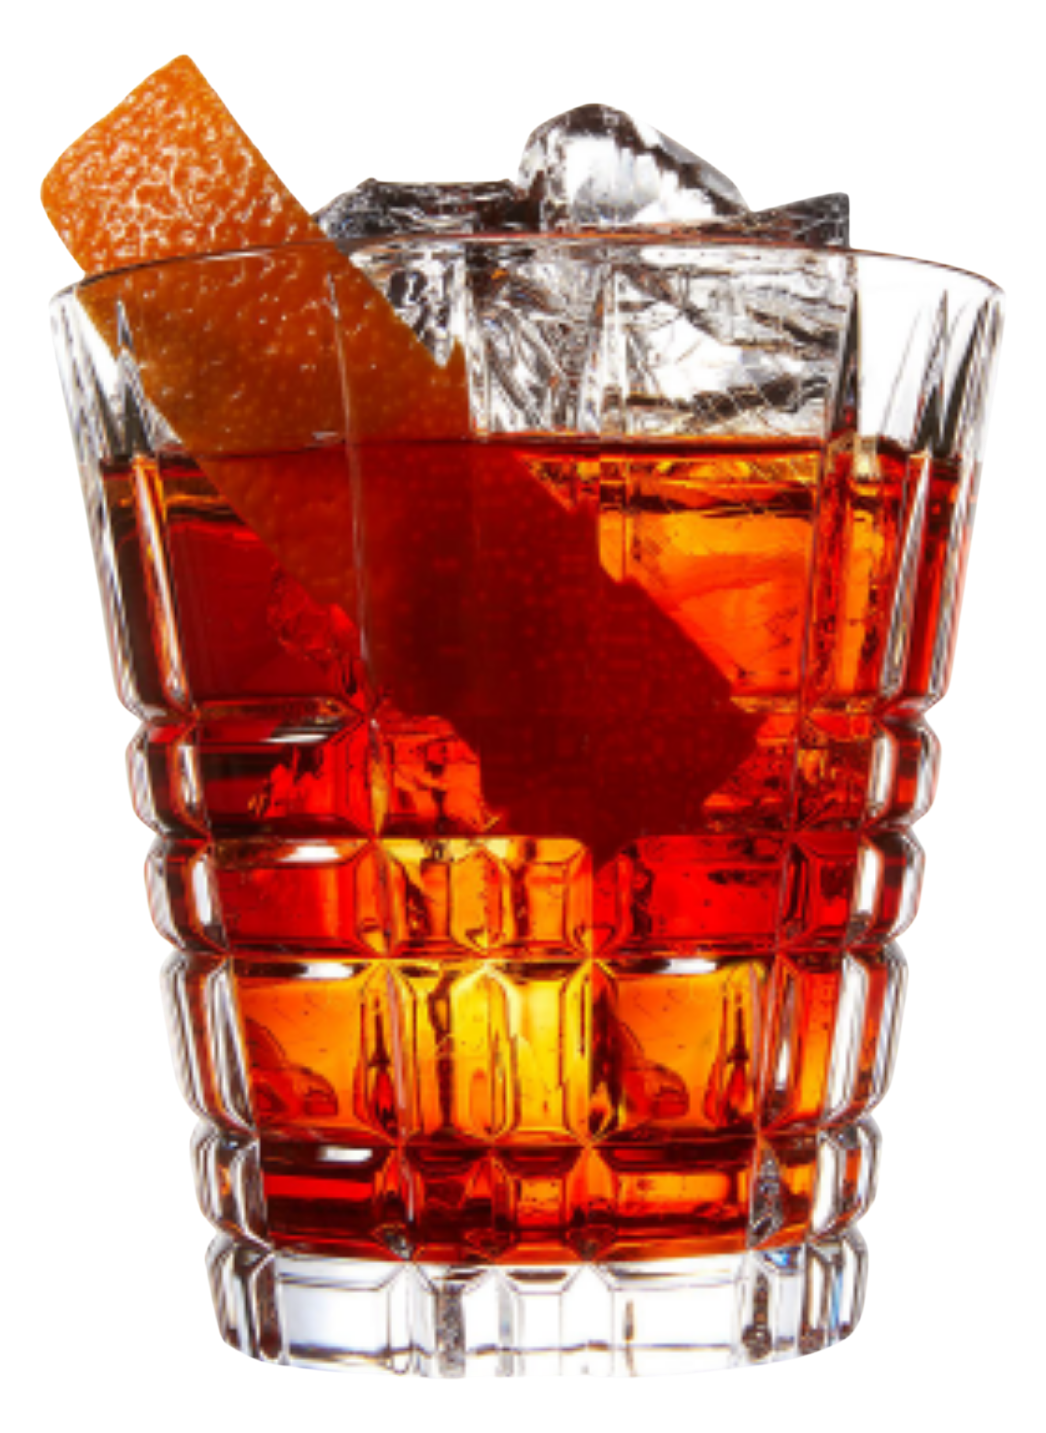
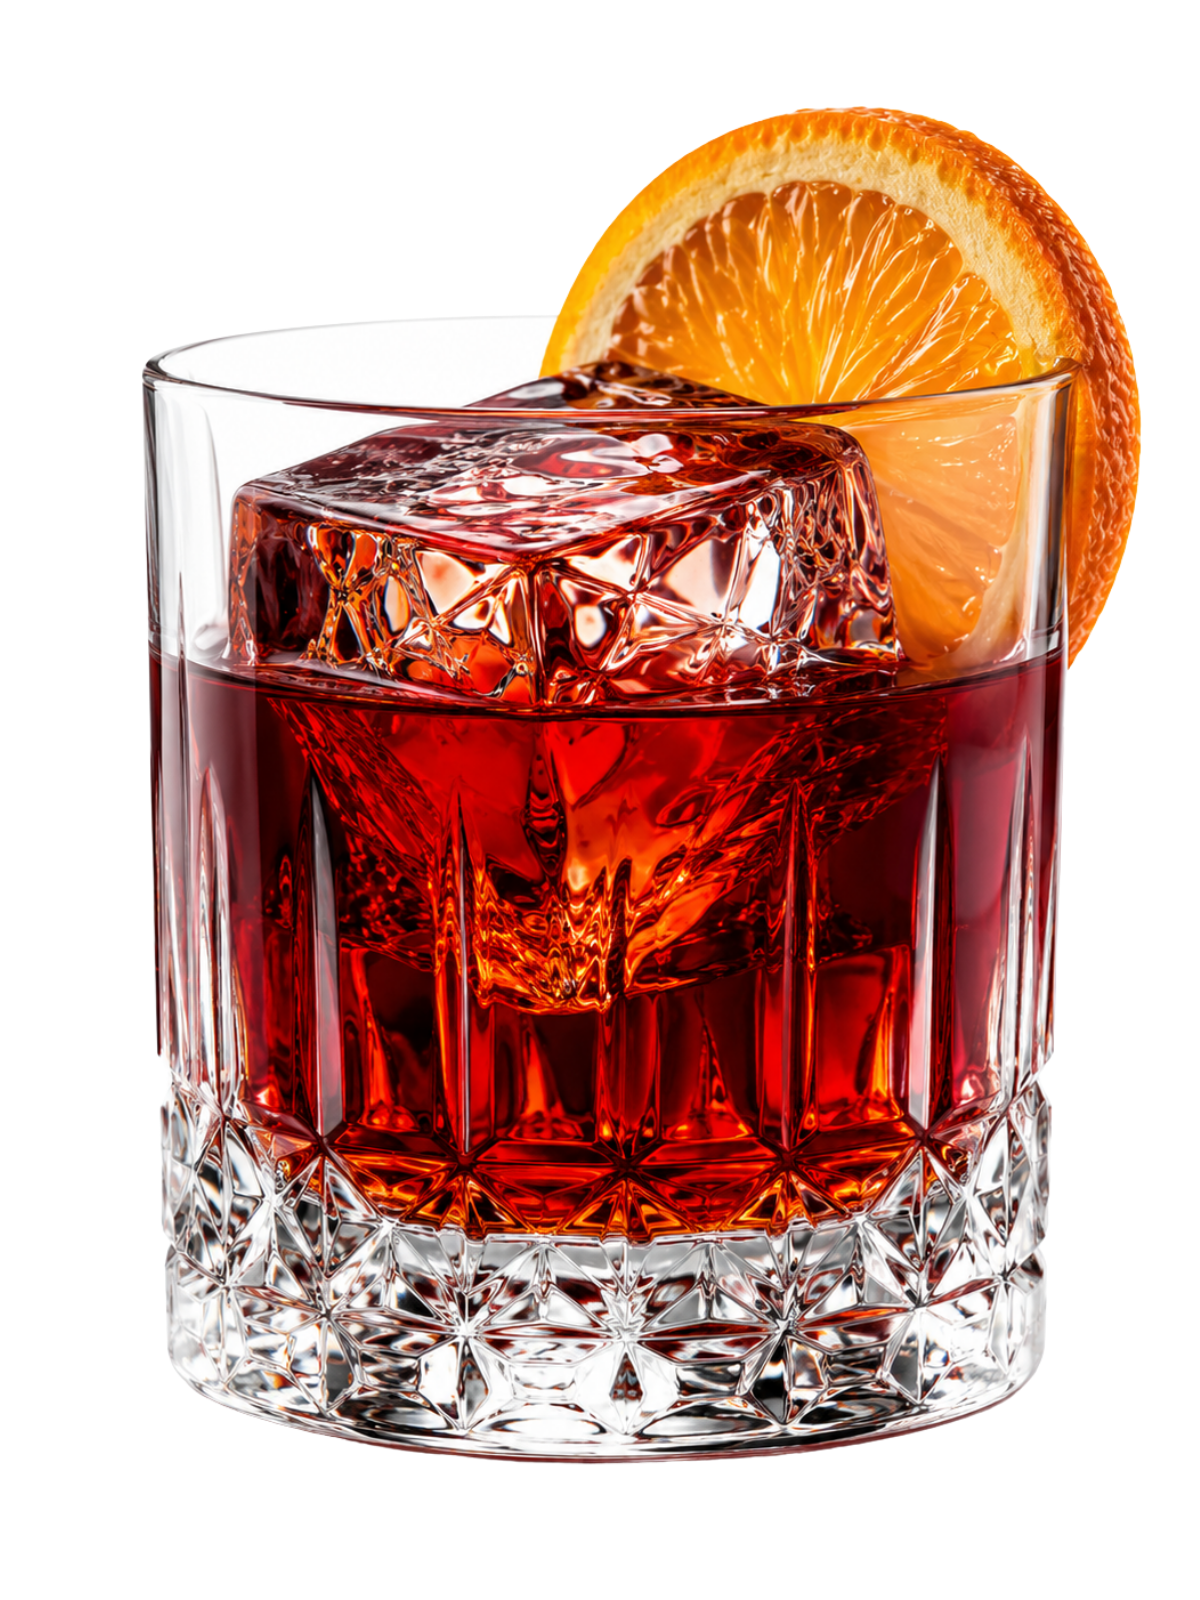
Обновить фото Americano и Milano-Torino и разделить карточки с рецептами.

diff --git a/src/data/recipes.ts b/src/data/recipes.ts
@@ -23,7 +23,10 @@ export interface Recipe {
   barCity: string;
   tags: string[];
   intro: string;
+  /** Фото для страницы рецепта (hero). */
   image: string;
+  /** Фото для карточек в коллекции и списках. Если не задано — используется image. */
+  cardImage?: string;
   method: string;
   glass: string;
   garnish: string;
@@ -70,6 +73,7 @@ export const recipes: RecipeEntry[] = [
       intro:
         'Milano-Torino, или Mi-To, — минималистичный предок Americano и Негрони. В нём нет джина и содовой: только равные части Кампари и сладкого красного вермута, поэтому вкус получается плотным, горько-сладким и очень прямым.',
       image: '/images/recipes/milano-torino.png',
+      cardImage: '/images/cards/milano-torino.png',
       method: 'Сборка в бокале',
       glass: 'Рокс',
       garnish: 'Апельсиновая цедра или долька апельсина',
@@ -121,6 +125,7 @@ export const recipes: RecipeEntry[] = [
       intro:
         'Americano — лёгкий итальянский аперитив и прямой предшественник Негрони. Та же горько-сладкая база Кампари и красного вермута становится более свежей за счёт содовой: напиток сохраняет характер, но пьётся легче.',
       image: '/images/recipes/americano.png',
+      cardImage: '/images/cards/americano.png',
       method: 'Сборка в бокале',
       glass: 'Хайбол или рокс',
       garnish: 'Долька апельсина или апельсиновая цедра',

diff --git a/src/app/curations/page.tsx b/src/app/curations/page.tsx
@@ -6,7 +6,7 @@ import { usePublicRecipes } from '@/hooks/usePublicRecipes';
 import Reveal from '@/components/Reveal';
 import { PublicRecipeImage } from '@/components/PublicRecipeImage';
 import { curations } from '@/data/curations';
-import { getRecipeByIdFrom } from '@/lib/public-recipes';
+import { getRecipeByIdFrom, getRecipeCardImage } from '@/lib/public-recipes';
 
 export default function CurationsPage() {
   const { t, lang } = useI18n();
@@ -61,7 +61,7 @@ export default function CurationsPage() {
                         className="block group relative overflow-hidden rounded-[var(--radius-md)] border border-[var(--color-border)] bg-[linear-gradient(180deg,rgba(255,255,255,0.045),rgba(18,18,18,0.75))] transition-all hover:-translate-y-1 hover:border-[var(--color-campari)] hover:shadow-[var(--shadow-md)]"
                       >
                         <PublicRecipeImage
-                          src={entry.recipe.image}
+                          src={getRecipeCardImage(entry.recipe)}
                           alt={entry.recipe.name}
                           className="aspect-[3/4]"
                           variant="card"

diff --git a/src/app/recipe/[id]/page.tsx b/src/app/recipe/[id]/page.tsx
@@ -9,7 +9,7 @@ import { usePublicRecipes } from '@/hooks/usePublicRecipes';
 import Reveal from '@/components/Reveal';
 import { PublicRecipeImage } from '@/components/PublicRecipeImage';
 import { type Prebatch, type RecipeEntry } from '@/data/recipes';
-import { getRecipeByIdFrom } from '@/lib/public-recipes';
+import { getRecipeByIdFrom, getRecipeCardImage } from '@/lib/public-recipes';
 
 const FLAVOR_KEYS = ['bitter', 'sweet', 'sour', 'spicy', 'strong'] as const;
 
@@ -446,7 +446,7 @@ export default function RecipePage() {
                 className="block p-4 bg-[var(--color-bg)]/30 border border-[var(--color-border)] rounded-[var(--radius-md)] hover:border-[var(--color-campari)] hover:-translate-y-0.5 transition-all group"
               >
                 <PublicRecipeImage
-                  src={r.recipe.image}
+                  src={getRecipeCardImage(r.recipe)}
                   alt={r.recipe.name}
                   className="aspect-[3/4] rounded mb-3"
                   variant="thumbnail"

diff --git a/src/app/collection/page.tsx b/src/app/collection/page.tsx
@@ -16,6 +16,7 @@ import {
   getAllCategoriesFrom,
   getAllRegionsFrom,
   getAllTagsFrom,
+  getRecipeCardImage,
 } from '@/lib/public-recipes';
 
 const FLAVOR_KEYS = ['bitter', 'sweet', 'sour', 'spicy', 'strong'] as const;
@@ -417,7 +418,7 @@ export default function CollectionPage() {
                 className="block group relative overflow-hidden rounded-[var(--radius-lg)] border border-[var(--color-border)] bg-[linear-gradient(180deg,rgba(255,255,255,0.045),rgba(28,28,28,0.82))] transition-all duration-[var(--transition-base)] hover:-translate-y-1 hover:border-[var(--color-campari)] hover:shadow-[var(--shadow-lg),0_0_26px_rgba(187,10,48,0.18)]"
               >
                 <PublicRecipeImage
-                  src={entry.recipe.image}
+                  src={getRecipeCardImage(entry.recipe)}
                   alt={entry.recipe.name}
                   className="card-media aspect-[3/4]"
                   variant="card"

diff --git a/src/app/partners/[category]/[drink]/page.tsx b/src/app/partners/[category]/[drink]/page.tsx
@@ -3,6 +3,7 @@ import Link from 'next/link';
 import { notFound } from 'next/navigation';
 import Reveal from '@/components/Reveal';
 import { PublicRecipeImage } from '@/components/PublicRecipeImage';
+import { getRecipeCardImage } from '@/lib/public-recipes';
 import {
   drinkCategories,
   drinks,
@@ -322,7 +323,7 @@ export default async function PartnerDrinkPage({
                   className="group overflow-hidden rounded-[var(--radius-lg)] border border-[var(--color-border)] bg-[var(--color-surface)] transition-all duration-500 hover:-translate-y-1 hover:border-[var(--color-campari)] hover:shadow-[var(--shadow-lg)]"
                 >
                   <PublicRecipeImage
-                    src={entry.recipe.image}
+                    src={getRecipeCardImage(entry.recipe)}
                     alt={entry.recipe.name}
                     className="aspect-[3/4]"
                     variant="card"

diff --git a/src/app/favorites/page.tsx b/src/app/favorites/page.tsx
@@ -7,7 +7,7 @@ import { useI18n } from '@/hooks/useI18n';
 import { useFavorites } from '@/hooks/useFavorites';
 import { usePublicRecipes } from '@/hooks/usePublicRecipes';
 import { PublicRecipeImage } from '@/components/PublicRecipeImage';
-import { getRecipeByIdFrom } from '@/lib/public-recipes';
+import { getRecipeByIdFrom, getRecipeCardImage } from '@/lib/public-recipes';
 
 export default function FavoritesPage() {
   const { t } = useI18n();
@@ -135,7 +135,7 @@ export default function FavoritesPage() {
               >
                 <Link href={`/recipe/${entry.id}`} className="block">
                   <PublicRecipeImage
-                    src={entry.recipe.image}
+                    src={getRecipeCardImage(entry.recipe)}
                     alt={entry.recipe.name}
                     className="aspect-[3/4]"
                     variant="card"

diff --git a/src/lib/public-recipes.ts b/src/lib/public-recipes.ts
@@ -1,5 +1,6 @@
 import {
   recipes as staticRecipes,
+  type Recipe,
   type RecipeEntry,
 } from '@/data/recipes';
 
@@ -26,6 +27,10 @@ export function normalizeRecipeEntry(entry: PublicRecipeEntry): PublicRecipeEntr
 }
 
 export const fallbackRecipeImage = 'https://images.unsplash.com/photo-1514362545857-3bc16c4c7d1b?w=1200';
+
+export function getRecipeCardImage(recipe: Recipe): string {
+  return recipe.cardImage || recipe.image || fallbackRecipeImage;
+}
 
 export function getRecipeByIdFrom(entries: PublicRecipeEntry[], id: string): PublicRecipeEntry | undefined {
   return entries.find((entry) => entry.id === id);

diff --git a/public/images/cards/README.md b/public/images/cards/README.md
@@ -1,0 +1,60 @@
+# Фото карточек (коллекция и списки)
+
+Папка для **фото коктейля на карточках** в коллекции, избранном, подборках и связанных рецептах.
+
+## Куда попадает на сайте
+
+- Карточки на `/collection`, `/favorites`, `/curations`
+- Миниатюры на странице рецепта
+- Пропорция медиа-блока: **3:4** (портрет)
+
+## Имя файла
+
+Используйте **id рецепта** из `src/data/recipes.ts`:
+
+```
+americano.png
+milano-torino.png
+yaroslavl-negroni.png
+```
+
+## Технические требования
+
+| Параметр | Значение |
+|----------|----------|
+| Формат | **PNG** с прозрачным фоном |
+| Размер | **900×1200 px** (оптимально) или **1050×1400 px** |
+| Пропорция | **3:4** или **7:10** — лучше всего для карточки |
+| Фон | Прозрачный |
+| Вес файла | до 1.5 МБ |
+
+## Как подготовить
+
+1. **Не используйте 9:16** (1080×1920) — стакан будет слишком мелким в карточке.
+2. Обрежьте PNG **плотно по контуру** стакана — без больших пустых полей.
+3. Стакан **по центру**, стоит на «полу» кадра (низ бокала у нижнего края).
+4. Гарнир не должен упираться в верхний край файла.
+5. Проверьте на тёмном фоне: не должно быть белой «подложки» вокруг бокала.
+
+## Схема кадра
+
+```
+┌─────────────┐
+│   гарнир    │  ← 10–15% высоты
+│             │
+│   стакан    │  ← основная часть
+│   стакан    │
+│  ▓▓▓▓▓▓▓▓▓  │  ← низ бокала у нижнего края
+└─────────────┘
+     3 : 4
+```
+
+## Подключение в проекте
+
+В `src/data/recipes.ts`:
+
+```ts
+image: '/images/cards/americano.png',
+```
+
+> Сейчас поле `image` используется и для карточек, и для страницы рецепта. Если нужны **разные** кадры для карточки и страницы — положите файлы в `cards/` и `recipes/` и попросите разработчика разделить поля в данных.

diff --git a/public/images/authors/README.md b/public/images/authors/README.md
@@ -1,0 +1,48 @@
+# Фото авторов
+
+Папка для **портретов авторов коктейлей** (барменов, создателей рецепта).
+
+## Куда попадает на сайте
+
+- Круглый аватар **32×32 px** на карточке в коллекции
+- Портрет **4:5** на странице рецепта (блок «Бар и автор»)
+
+## Имя файла
+
+Рекомендуется id рецепта или фамилия латиницей:
+
+```
+yaroslavl-negroni.jpg
+alexandra-taran.jpg
+```
+
+## Технические требования
+
+| Параметр | Значение |
+|----------|----------|
+| Формат | **JPEG** или **WebP** (фото человека, фон не обязателен) |
+| Размер | **800×1000 px** минимум (пропорция **4:5**) |
+| Пропорция | **4:5** (портрет) — совпадает с блоком на странице рецепта |
+| Кадрирование | Лицо и плечи по центру; важное не обрезать по краям круга-аватара |
+| Вес файла | до 500 КБ |
+
+## Как подготовить
+
+1. Вертикальный портрет, человек смотрит в камеру или в профиль.
+2. Нейтральный или барный фон, без мелкого «шума» за спиной.
+3. Лицо в **центральной трети** кадра — на карточке коллекции фото обрезается в **круг**.
+4. Свет ровный, без пересветов на лице.
+5. Сохраните с качеством 80–85% (JPEG) или WebP.
+
+## Проверка перед загрузкой
+
+- Уменьшите превью до круга 32 px — лицо должно быть узнаваемо.
+- Убедитесь, что при обрезке 4:5 голова не обрезана сверху.
+
+## Подключение в проекте
+
+В `src/data/recipes.ts` у рецепта:
+
+```ts
+authorImage: '/images/authors/yaroslavl-negroni.jpg',
+```

diff --git a/public/images/recipes/README.md b/public/images/recipes/README.md
@@ -1,0 +1,46 @@
+# Фото рецептов (страница коктейля)
+
+Папка для **главного фото коктейля** на странице `/recipe/[id]`.
+
+## Куда попадает на сайте
+
+- Большое изображение в боковой колонке страницы рецепта
+- Пропорция блока на сайте: **3:4** (портрет)
+
+## Имя файла
+
+Используйте **id рецепта** из `src/data/recipes.ts` (латиница, через дефис):
+
+```
+americano.png
+milano-torino.png
+yaroslavl-negroni.png
+```
+
+## Технические требования
+
+| Параметр | Значение |
+|----------|----------|
+| Формат | **PNG** с прозрачным фоном |
+| Размер | **1200×1600 px** (или 900×1200 px минимум) |
+| Пропорция | **3:4** или **7:10** |
+| Фон | Прозрачный (без белого/чёрного) |
+| Вес файла | до 2 МБ |
+
+## Как подготовить
+
+1. Снимите или отретушируйте стакан на **прозрачном** фоне.
+2. Обрежьте лишнее пространство вокруг бокала (в Photoshop: «Обрезать по прозрачности»).
+3. Стакан по центру по горизонтали, **низ бокала** близко к нижнему краю кадра (отступ 3–5%).
+4. Оставьте немного места сверху для гарнира (цедра, долька).
+5. Сохраните как PNG-24 с альфа-каналом.
+
+## Подключение в проекте
+
+В `src/data/recipes.ts` укажите путь:
+
+```ts
+image: '/images/recipes/americano.png',
+```
+
+> Если для карточки коллекции и страницы рецепта используется **одно и то же** фото, достаточно положить файл сюда или в `../cards/` и указать один путь в `image`.
